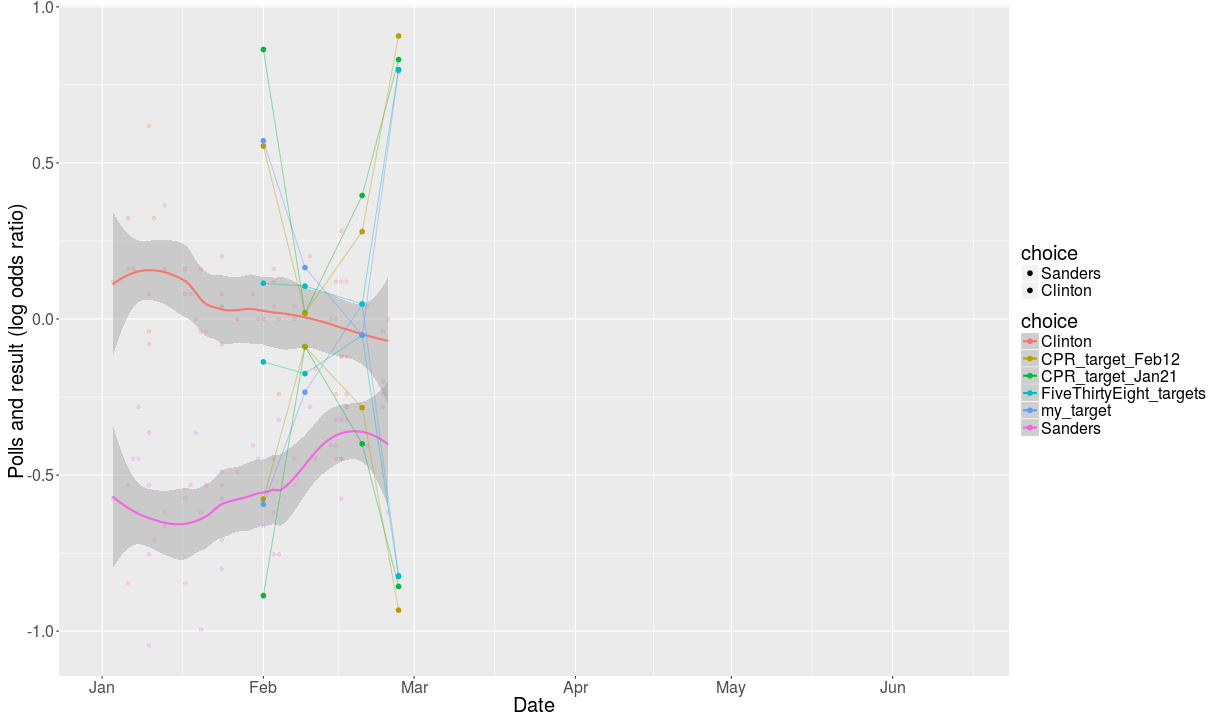
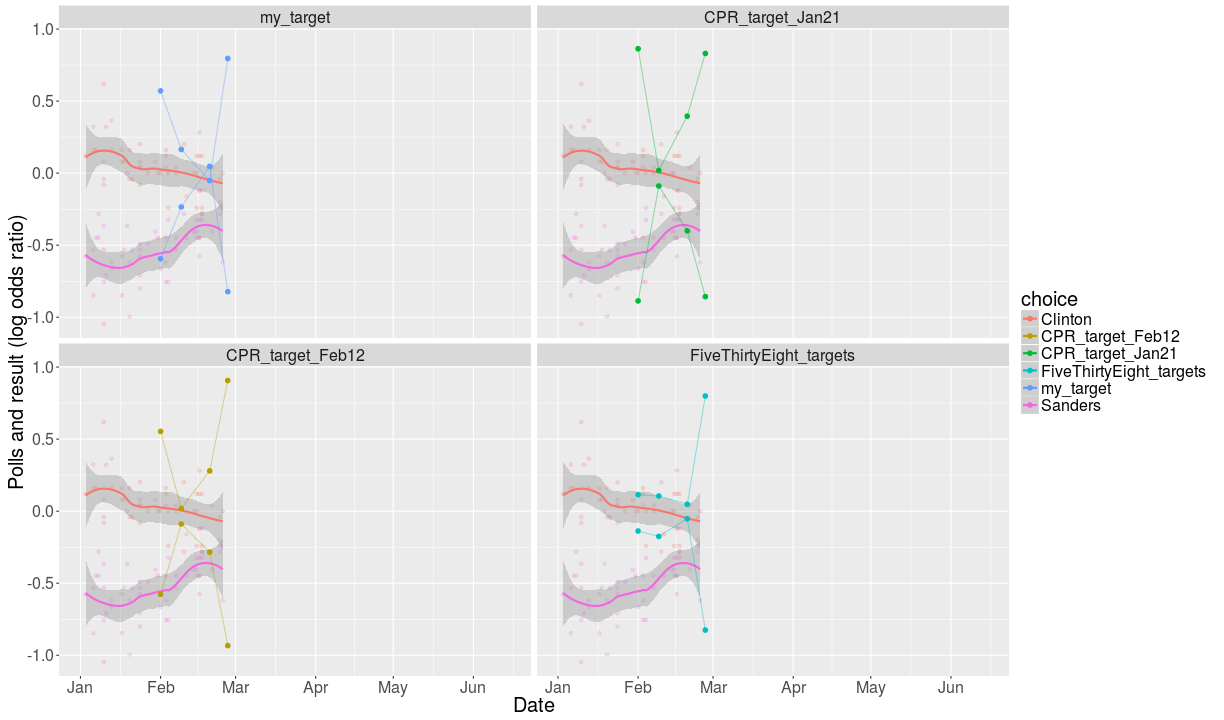
Updated graphs (actually, though)

diff --git a/polls.md b/polls.md
@@ -8,22 +8,7 @@ permalink : /polls/
 
 
 
-
-{% highlight text %}
-## Error in select_(.data, .dots = lazyeval::lazy_dots(...)): object 'end_date' not found
-{% endhighlight %}
-
-
-
-{% highlight text %}
-## Error in facet_wrap(data = targets, ~method): unused argument (data = targets)
-{% endhighlight %}
-
-
-
-{% highlight text %}
-## Error in eval(expr, envir, enclos): object 'p_states' not found
-{% endhighlight %}
+![center](/../figs/polls/unnamed-chunk-1-1.png)
 
 This chart seeks to satisfy some of my more particular desires in charts, as well as add a bit of information.
 I am only using the democratic primary race, due to a target analysis that is *significantly* easier to run in a 2-person race.
